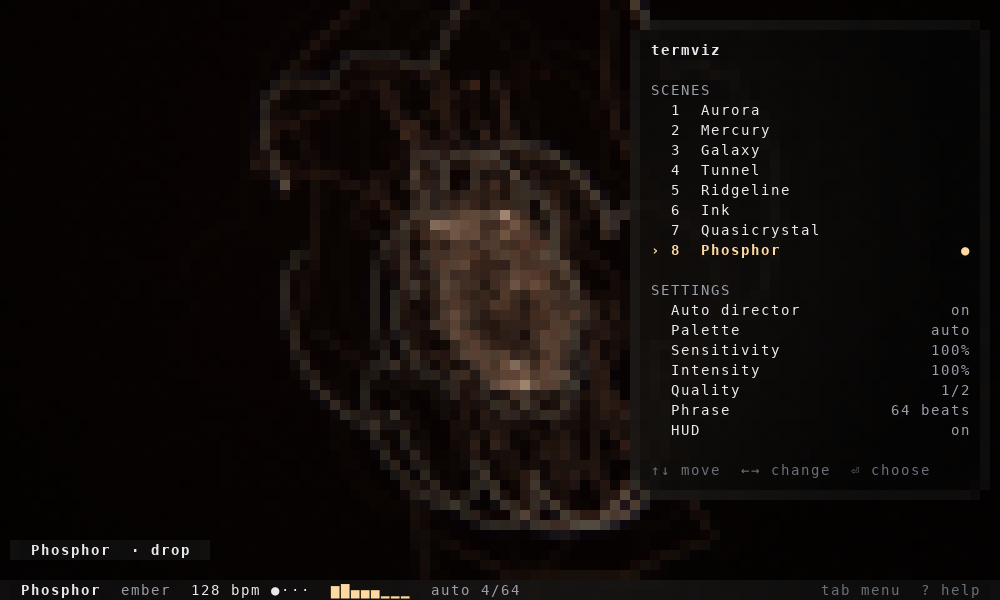
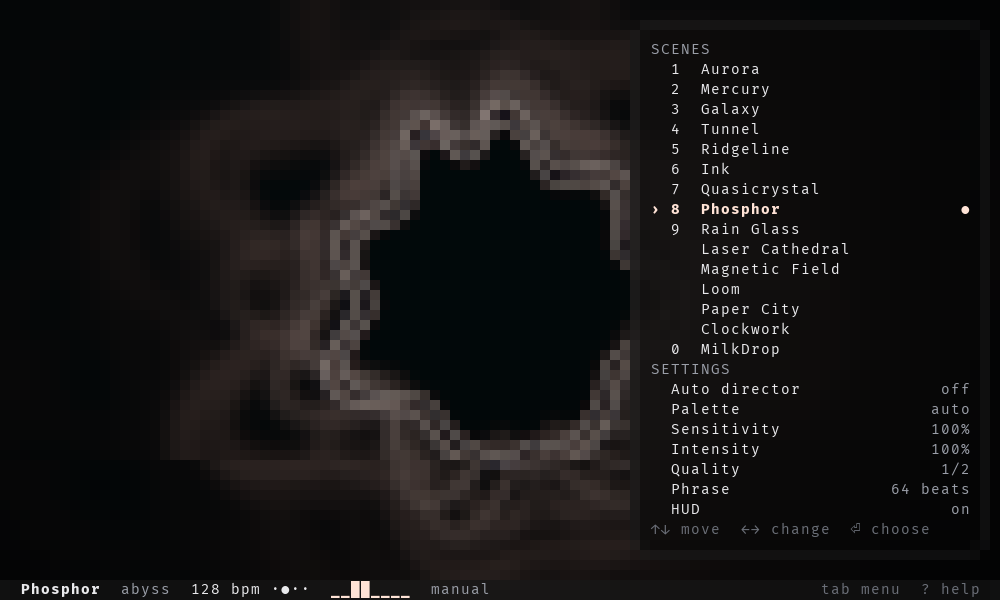
Fix ConPTY isolation and finish gListening branding

diff --git a/platform/audio_wasapi.cpp b/platform/audio_wasapi.cpp
@@ -7,7 +7,8 @@
 //            the device's rate and channel layout.
 // Both follow the default device: when it changes or disappears the stream is
 // reopened (loopback delivers silence meanwhile). Loopback sends no packets
-// while nothing plays, so the capture fills those gaps with silence.
+// while nothing plays, so the capture fills such gaps (only gaps over 100 ms,
+// never mid-stream: the device clock is not the steady clock) with silence.
 // https://learn.microsoft.com/en-us/windows/win32/coreaudio/loopback-recording
 #include "platform.hpp"
 
@@ -161,10 +162,8 @@ private:
             return;
         }
         std::vector<float> dev, st, out;
-        const auto start = Clock::now();
-        auto lastCheck = start;
-        long long emitted = 0;  // frames pushed at SR, data and filled gaps
-        auto push = [&](const float *p, int n) { ring_.push(p, size_t(n)), emitted += n; };
+        auto lastCheck = Clock::now(), covered = lastCheck;  // covered: audio (or silence) delivered up to here
+        auto push = [&](const float *p, int n) { ring_.push(p, size_t(n)); };
         while (!stop_) {
             Sleep(10);
             bool lost = !cap_;
@@ -180,6 +179,7 @@ private:
                 cap_->ReleaseBuffer(frames);
                 downmix(dev.data(), fmt_.channels, int(frames), st.data());
                 push(out.data(), rs_.run(st.data(), int(frames), out.data()));
+                covered = Clock::now();
             }
             if (FAILED(h)) lost = true;  // AUDCLNT_E_DEVICE_INVALIDATED and friends
             const auto now = Clock::now();
@@ -188,10 +188,13 @@ private:
                 std::lock_guard<std::mutex> l(mu_);
                 desc_ = "WASAPI loopback: no default output device (retrying)";
             }
-            // Nothing playing: no packets. Keep the stream continuous, 30 ms behind the clock.
-            const long long due = (long long)(std::chrono::duration<double>(now - start).count() * SR) - SR * 3 / 100;
-            static const float zeros[2 * 512] = {};
-            while (emitted < due - SR / 20) push(zeros, int(std::min<long long>(512, due - emitted)));
+            // Nothing playing: no packets. Keep the stream continuous so the visuals decay.
+            if (now - covered > std::chrono::milliseconds(100)) {
+                static const float zeros[2 * 512] = {};
+                for (long long n = (long long)(std::chrono::duration<double>(now - covered).count() * SR); n > 0; n -= 512)
+                    push(zeros, int(std::min<long long>(512, n)));
+                covered = now;
+            }
         }
         close();
         if (SUCCEEDED(co)) CoUninitialize();

diff --git a/viz.cpp b/viz.cpp
@@ -234,7 +234,7 @@ static int selfTest() {
         printf("%s  %s  — %s\n", ok ? "PASS" : "FAIL", what.c_str(), detail.c_str());
         failures += !ok;
     };
-    printf("glistening %s self-test (%s; %s)\n", GLISTENING_VERSION, sys::osName(), backends());
+    printf("gListening %s self-test (%s; %s)\n", GLISTENING_VERSION, sys::osName(), backends());
 
     {  // The test track as a 48 kHz 5.1 device would deliver it, through downmix, resampler and ring.
         const int inRate = 48000, ch = 6, chunk = 480;
@@ -401,7 +401,7 @@ int main(int argc, char **argv) {
         return 2;
     }
     if (o.help) return printf("%s", USAGE), 0;
-    if (o.version) return printf("glistening %s (%s; %s)\n", GLISTENING_VERSION, sys::osName(), backends()), 0;
+    if (o.version) return printf("gListening %s (%s; %s)\n", GLISTENING_VERSION, sys::osName(), backends()), 0;
     if (o.selfTest) return selfTest();
     if (o.checkAudio) {
         sys::quitHandlers();
@@ -858,12 +858,12 @@ int main(int argc, char **argv) {
                 if (Cut c = dir.update(f)) pendingCut = c;
             });
         }
-        if (pcm.eof && eofAt < 0) eofAt = L.music.time, say(!finite ? "audio source ended" : "end of file", 4);
+        if (pcm.eof && eofAt < 0) eofAt = L.music.time, say(!finite ? "audio source ended" : o.testSignal ? "end of test signal" : "end of file", 4);
         if (pcm.eof && !eofChecked && pcm.poll()) {  // its exit status, as soon as it is known
             eofChecked = true;
             pcm.proc.stop();  // whatever the command left behind goes now, while its group id is still its own
             if (pcm.failed() && (finite || dump)) return restore(), sourceFailed(), 1;  // nobody can see a toast
-            if (pcm.failed()) say("audio source failed (is PipeWire/Pulse running?)", 4);
+            if (pcm.failed()) say(pcm.cap ? "system audio capture stopped: " + pcm.capErr : "audio source failed (is PipeWire/Pulse running?)", 4);
         }
         if (finite && eofAt >= 0 && L.music.time - eofAt > 1.5) g_quit = 1;
         if (!dump && o.secondsGiven && t0 - start > std::chrono::duration<double>(o.seconds)) g_quit = 1;

diff --git a/platform/audio_macos.mm b/platform/audio_macos.mm
@@ -64,7 +64,7 @@ public:
             UInt32 sz = sizeof fmt_;
             if ((st = AudioObjectGetPropertyData(tap_, &fa, 0, nullptr, &sz, &fmt_)) != noErr) return "cannot read the tap format: " + osErr(st);
             if (fmt_.mFormatID != kAudioFormatLinearPCM || !(fmt_.mFormatFlags & kAudioFormatFlagIsFloat) || fmt_.mBitsPerChannel != 32 ||
-                fmt_.mChannelsPerFrame < 1 || fmt_.mSampleRate < 8000)
+                fmt_.mChannelsPerFrame < 1 || !(fmt_.mSampleRate >= 8000 && fmt_.mSampleRate <= 384000))
                 return "unexpected tap format (" + std::to_string(int(fmt_.mSampleRate)) + " Hz, " + std::to_string(fmt_.mBitsPerChannel) + " bit)";
             rs_ = Resampler(fmt_.mSampleRate);
 
@@ -109,7 +109,9 @@ private:
     Resampler rs_;
     std::atomic<long long> startNs_{0}, lastNs_{0};
     static constexpr int CHUNK = 2048;
-    float stereo_[2 * CHUNK], out_[2 * (CHUNK * 4 + 8)];  // out_: room for upsampling from 11 kHz
+    // out_ holds maxOut(CHUNK) at the lowest accepted rate: 8 kHz -> 44.1 kHz is x5.51.
+    static constexpr int OUT = CHUNK * 6 + 16;
+    float stereo_[2 * CHUNK], out_[2 * OUT];
 
     // Real-time thread: no locks, no allocation. Takes the first two channels
     // of whatever layout arrives (one interleaved buffer, or one per channel).
@@ -130,7 +132,7 @@ private:
             if (planar)
                 for (int i = 0; i < n; i++) self.stereo_[2 * i] = L[off + i], self.stereo_[2 * i + 1] = R[off + i];
             else downmix(L + size_t(off) * ch0, ch0, n, self.stereo_);
-            if (self.rs_.maxOut(n) > CHUNK * 4 + 8) return noErr;  // a format this code doesn't expect (rate under 11 kHz)
+            if (self.rs_.maxOut(n) > OUT) return noErr;  // unreachable for the rates open() accepts
             self.ring_.push(self.out_, size_t(self.rs_.run(self.stereo_, n, self.out_)));
         }
         return noErr;

diff --git a/tui.hpp b/tui.hpp
@@ -364,7 +364,7 @@ private:
         };
         std::vector<Line> L;
         const bool roomy = int(it.size()) + 9 <= maxH;
-        if (roomy) L.push_back({-1, "glistening"}), L.push_back({-1, ""});
+        if (roomy) L.push_back({-1, "gListening"}), L.push_back({-1, ""});
         L.push_back({-1, "SCENES"});
         for (size_t i = 0; i < it.size(); i++) {
             if (it[i].row == DirectorRow) {
@@ -387,7 +387,7 @@ private:
             const Line &l = L[first + r];
             const int y = y0 + 1 + r, x = x0 + 2, w = W - 4;
             if (l.item == -2) sc.text(x, y, fit(l.text, w), FAINT);
-            else if (l.item < 0) sc.text(x, y, fit(l.text, w), l.text == "glistening" ? FG : MUTED, DEF, l.text == "glistening" ? BOLD : 0);
+            else if (l.item < 0) sc.text(x, y, fit(l.text, w), l.text == "gListening" ? FG : MUTED, DEF, l.text == "gListening" ? BOLD : 0);
             else drawItem(sc, x, y, w, it[l.item], l.item == sel, st);
         }
         return {x0, y0, W, H};

diff --git a/platform/windows.cpp b/platform/windows.cpp
@@ -297,10 +297,14 @@ static bool spawn(Process::Impl &p, const std::wstring &app, std::wstring cmdlin
     return true;
 }
 
+// Executables only: CreateProcess runs .bat/.cmd through cmd.exe, which
+// re-parses the arguments (a file name could inject commands).
 bool Process::start(const std::vector<std::string> &argv, bool blocking) {
     if (argv.empty() || p_->proc) return false;
     const std::string path = findProgram(argv[0]);
-    if (path.empty()) return false;
+    std::string ext = path.size() > 4 ? path.substr(path.size() - 4) : "";
+    for (char &c : ext) c = char(tolower((unsigned char)c));
+    if (ext != ".exe" && ext != ".com") return false;
     std::wstring cmd = quoteArg(wide(path));
     for (size_t i = 1; i < argv.size(); i++) cmd += L" " + quoteArg(wide(argv[i]));
     return spawn(*p_, wide(path), cmd, blocking);

diff --git a/tests/test.cpp b/tests/test.cpp
@@ -566,7 +566,7 @@ static void testEncoders() {
           "kitty in-band frame: ≤4096-byte base64 chunks, m=1 until the last, full payload", fmt("%.0f chunks", chunks));
     const std::string sh = kittyShm("/glistening-1-2", w, h, rgb.size(), 1, 80, 24, Z_CELLS);
     check(sh.find("t=s") != std::string::npos && sh.find("S=" + std::to_string(rgb.size())) != std::string::npos &&
-              sh.find("z=-1073741825") != std::string::npos && sh.find(b64((const unsigned char *)"/glistening-1-2", 12)) != std::string::npos,
+              sh.find("z=-1073741825") != std::string::npos && sh.find(b64((const unsigned char *)"/glistening-1-2", 15)) != std::string::npos,
           "kitty shm frame names the object, its size and the z layer");
 
     Screen ui(40, 12);

diff --git a/tests/ptysmoke.cpp b/tests/ptysmoke.cpp
@@ -94,6 +94,8 @@ static int run(const std::string &exe, const std::string &mode, std::string &out
     InitializeProcThreadAttributeList(nullptr, 1, 0, &size);
     STARTUPINFOEXW si{};
     si.StartupInfo.cb = sizeof si;
+    // Null standard handles attach to ConPTY instead of inheriting CI output pipes.
+    si.StartupInfo.dwFlags = STARTF_USESTDHANDLES;
     si.lpAttributeList = (LPPROC_THREAD_ATTRIBUTE_LIST)HeapAlloc(GetProcessHeap(), 0, size);
     InitializeProcThreadAttributeList(si.lpAttributeList, 1, 0, &size);
     UpdateProcThreadAttribute(si.lpAttributeList, 0, PROC_THREAD_ATTRIBUTE_PSEUDOCONSOLE, pc, sizeof pc, nullptr, nullptr);

diff --git a/README.md b/README.md
@@ -6,9 +6,9 @@ Music, rendered in your terminal. Fourteen original GLSL scenes follow your syst
 
 ## Installation
 
-**Portability validation is in progress. No installable release has been published yet.** Native support and installation commands below are being tested in the public pull request.
+**No installable release has been published yet.** Pre-release builds are tested in [the public pull request](https://github.com/namelesstherebel/glistening/pull/1); successful builds provide a `glistening-npm` archive in GitHub Actions artifacts. Download and extract that archive to obtain the npm `.tgz`.
 
-Release bundles contain native executables for Linux x64, macOS Apple Silicon and Intel, and Windows x64. Node.js 20 or newer runs the npm launcher; end users do not need a C++ compiler. Download the npm `.tgz` from [Releases](https://github.com/namelesstherebel/glistening/releases), then:
+Release bundles contain native executables for Linux x64, macOS Apple Silicon and Intel, and Windows x64. Node.js 20 or newer runs the npm launcher; end users do not need a C++ compiler. Use the npm `.tgz` from CI artifacts, or from [Releases](https://github.com/namelesstherebel/glistening/releases) once published, then:
 
 ```sh
 npm install -g ./glistening-0.1.0.tgz
@@ -25,8 +25,8 @@ You can also use the native executable directly without Node.js. FFmpeg must be 
 | OS | Runtime requirements | Dependency setup |
 |---|---|---|
 | macOS 14.2+ | System OpenGL and CoreAudio; FFmpeg for files | `brew install ffmpeg` |
-| Windows 10/11 x64 | GPU driver with OpenGL 3.3; WASAPI output endpoint; FFmpeg for files | `winget install --id Gyan.FFmpeg --exact --source winget` |
-| Linux x64 | EGL/OpenGL 3.3; PulseAudio or PipeWire with Pulse compatibility; FFmpeg for files | `glistening setup` installs client tools, Mesa/EGL, and FFmpeg on Debian/Ubuntu, Arch, or Fedora |
+| Windows 10 1809+ / 11 x64 | GPU driver with OpenGL 3.3; WASAPI output endpoint; FFmpeg for files | `winget install --id Gyan.FFmpeg --exact --source winget` |
+| Linux x64 with glibc 2.35+ (Ubuntu 22.04 / Debian 12 or newer) | EGL/OpenGL 3.3; PulseAudio or PipeWire with Pulse compatibility; FFmpeg for files | `glistening setup` installs client tools, Mesa/EGL, and FFmpeg on Debian/Ubuntu, Arch, or Fedora |
 
 macOS captures system output through CoreAudio taps. First use requires the system's audio-recording permission; approve the OS prompt. Windows uses WASAPI loopback on the default output. Linux captures the default output monitor through `parec`; an existing PulseAudio-compatible sound server must be running. A microphone is not substituted for system output.
 
